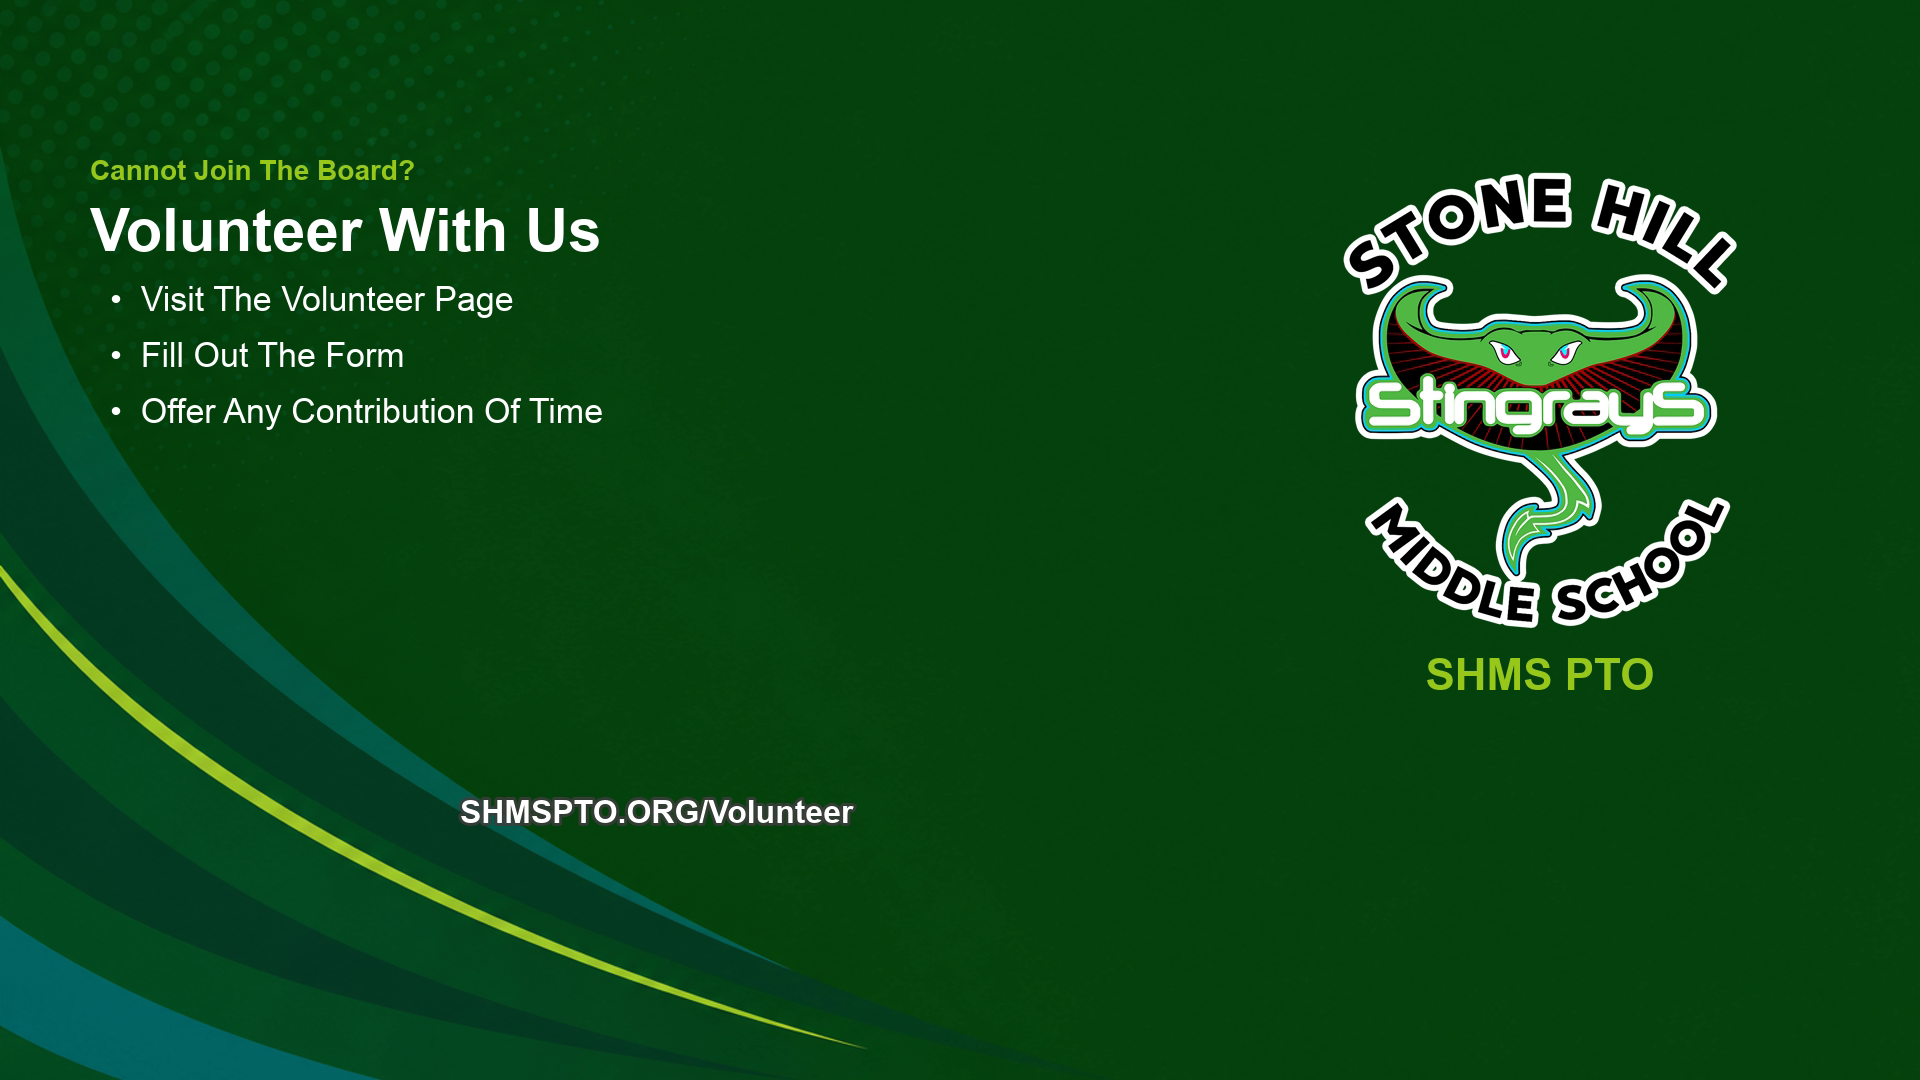
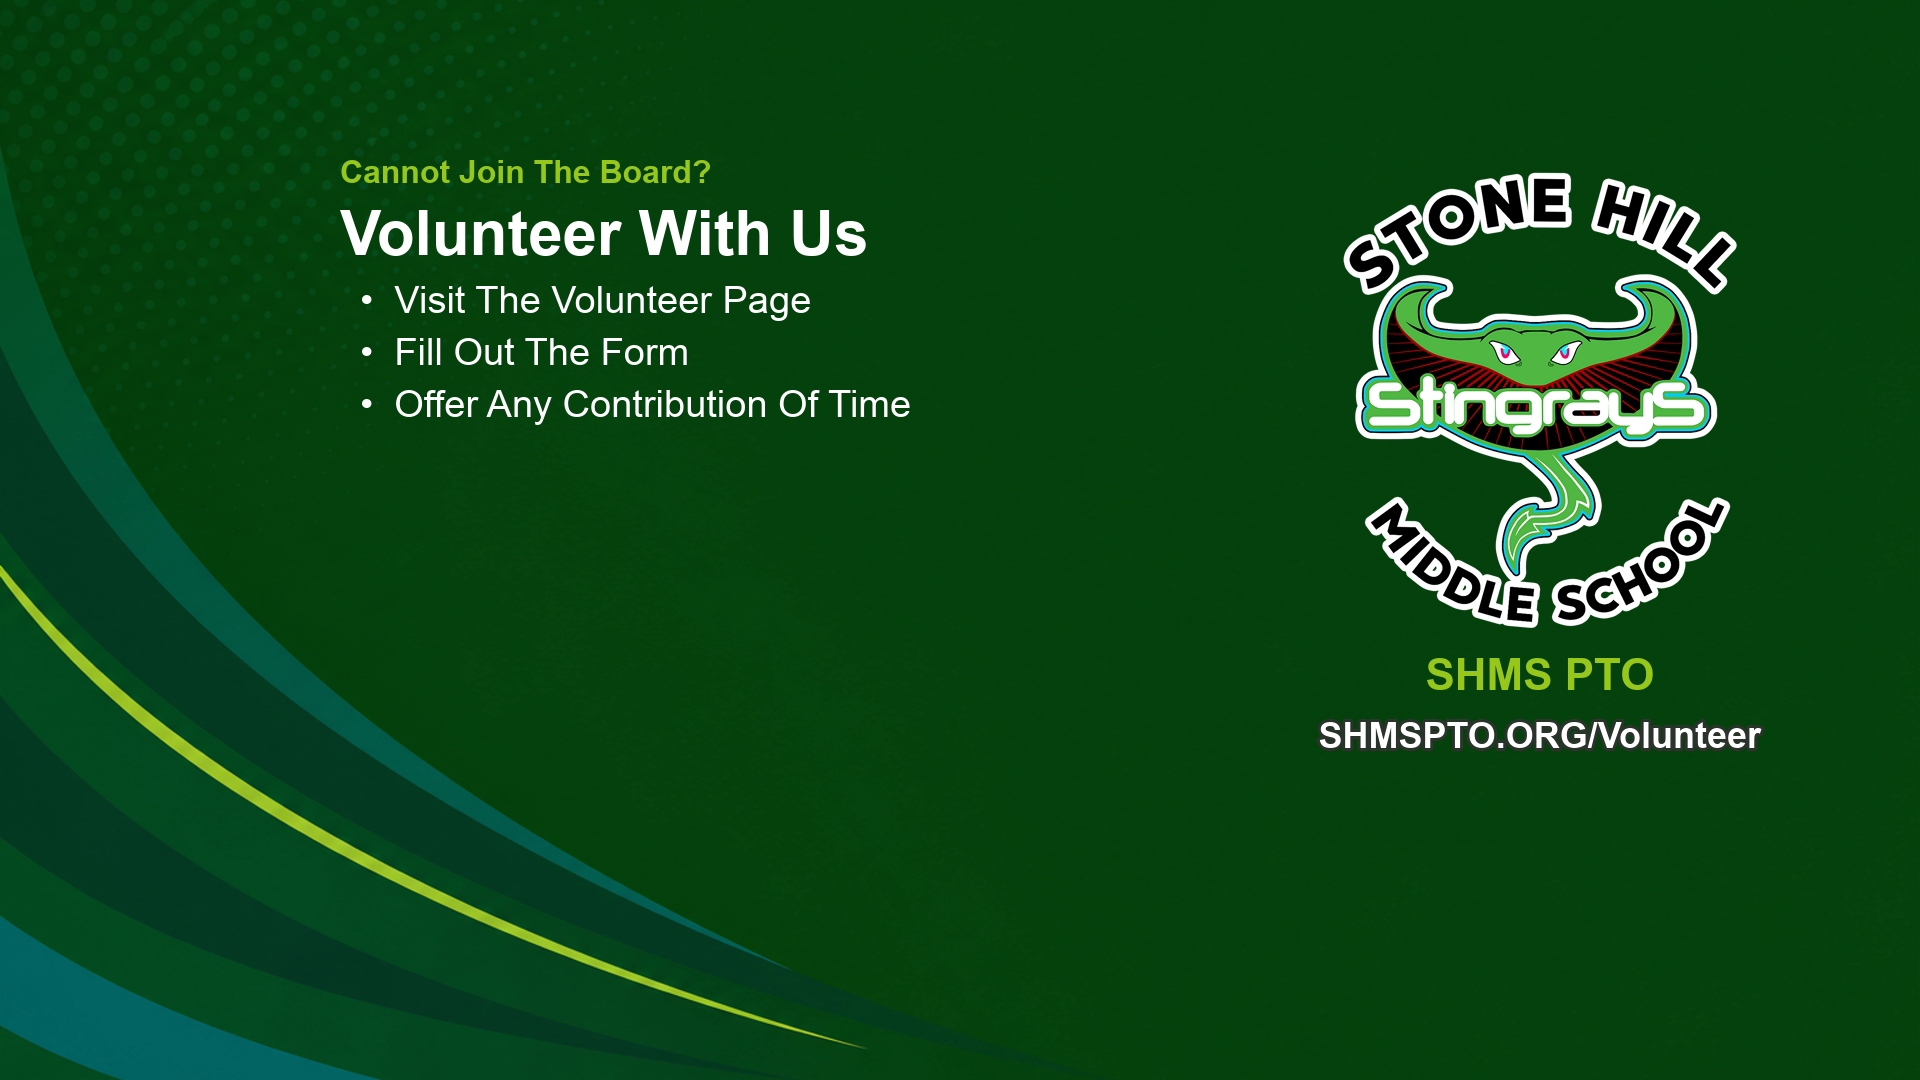
fix(board-recruit): keep open-slide copy in clear landscape off the waves.
Park titles/bullets mid-frame above the crest; commitment line under the seal for mobile-readable contrast.

diff --git a/promo-videos/scripts/assemble_board_recruit.js b/promo-videos/scripts/assemble_board_recruit.js
@@ -50,12 +50,16 @@ const PAD = 0.9;
 /** Hold after last VO so thank-you finishes before silent outro */
 const TAIL_PAD = 1.2;
 
-/** Text column — clear of left swoosh waves; never over bottom-right waves */
-const TEXT_X = 90;
-const BULLET_X = 110;
-const FOOTER_X = 460; // clear of left-side design waves
-const FOOTER_Y = 800; // above bottom wave band
-const CONTENT_MAX_Y = 780;
+/**
+ * Site bg waves hug bottom-left (measured): at y=640 wave reaches ~x293;
+ * at y=520 ~x162. Park copy in mid landscape, ABOVE the crest.
+ */
+const TEXT_X = 340;   // clear of left wave rise
+const BULLET_X = 360;
+const WAVE_SAFE_MAX_Y = 620; // above wave at this TEXT_X
+const CONTENT_MAX_Y = WAVE_SAFE_MAX_Y;
+/** Commitment / footers: under seal on the right — clear of all waves */
+const FOOTER_Y = LABEL_Y + 64;
 
 const BEATS = [
   { part: 'vo/_parts/board_p01_open.m4a', still: 'assets/board-recruit/slide_open.png', caption: 'Five Board Seats Open' },
@@ -125,31 +129,31 @@ function makeSlide(outName, { eyebrow, title, bullets = [], footer }) {
     y: LABEL_Y,
   });
 
-  // Left column starts at same Y as logo top
+  // Mid-landscape column — same top as logo; never into bottom-left waves
   let y = TEXT_TOP;
   if (eyebrow) {
-    addText(eyebrow, { size: 28, color: '0x98C818', x: TEXT_X, y });
-    y += 48;
+    addText(eyebrow, { size: 32, color: '0x98C818', x: TEXT_X, y });
+    y += 50;
   }
   addText(title, {
-    size: title.length > 24 ? 52 : 60,
+    size: title.length > 24 ? 54 : 62,
     color: 'white',
     x: TEXT_X,
     y,
   });
-  y += 78;
+  y += 76;
 
   for (const b of bullets) {
     if (y > CONTENT_MAX_Y) break;
-    addText(`•  ${b}`, { size: 34, color: 'white', x: BULLET_X, y, bold: false });
-    y += 56;
+    addText(`•  ${b}`, { size: 38, color: 'white', x: BULLET_X, y, bold: false });
+    y += 52;
   }
   if (footer) {
-    // White + dark edge so commitment/footer stays readable over green waves
+    // Under logo in clear landscape — never on bottom-left waves (mobile-readable)
     const tag = `v${n++}`;
     parts.push(
-      `[${last}]drawtext=fontfile=${fontB}:text='${esc(footer)}':fontsize=32:fontcolor=white:` +
-      `borderw=3:bordercolor=black@0.75:x=${FOOTER_X}:y=${FOOTER_Y}[${tag}]`
+      `[${last}]drawtext=fontfile=${fontB}:text='${esc(footer)}':fontsize=36:fontcolor=white:` +
+      `borderw=3:bordercolor=black@0.8:x=${LOGO_CX}-text_w/2:y=${FOOTER_Y}[${tag}]`
     );
     last = tag;
   }
